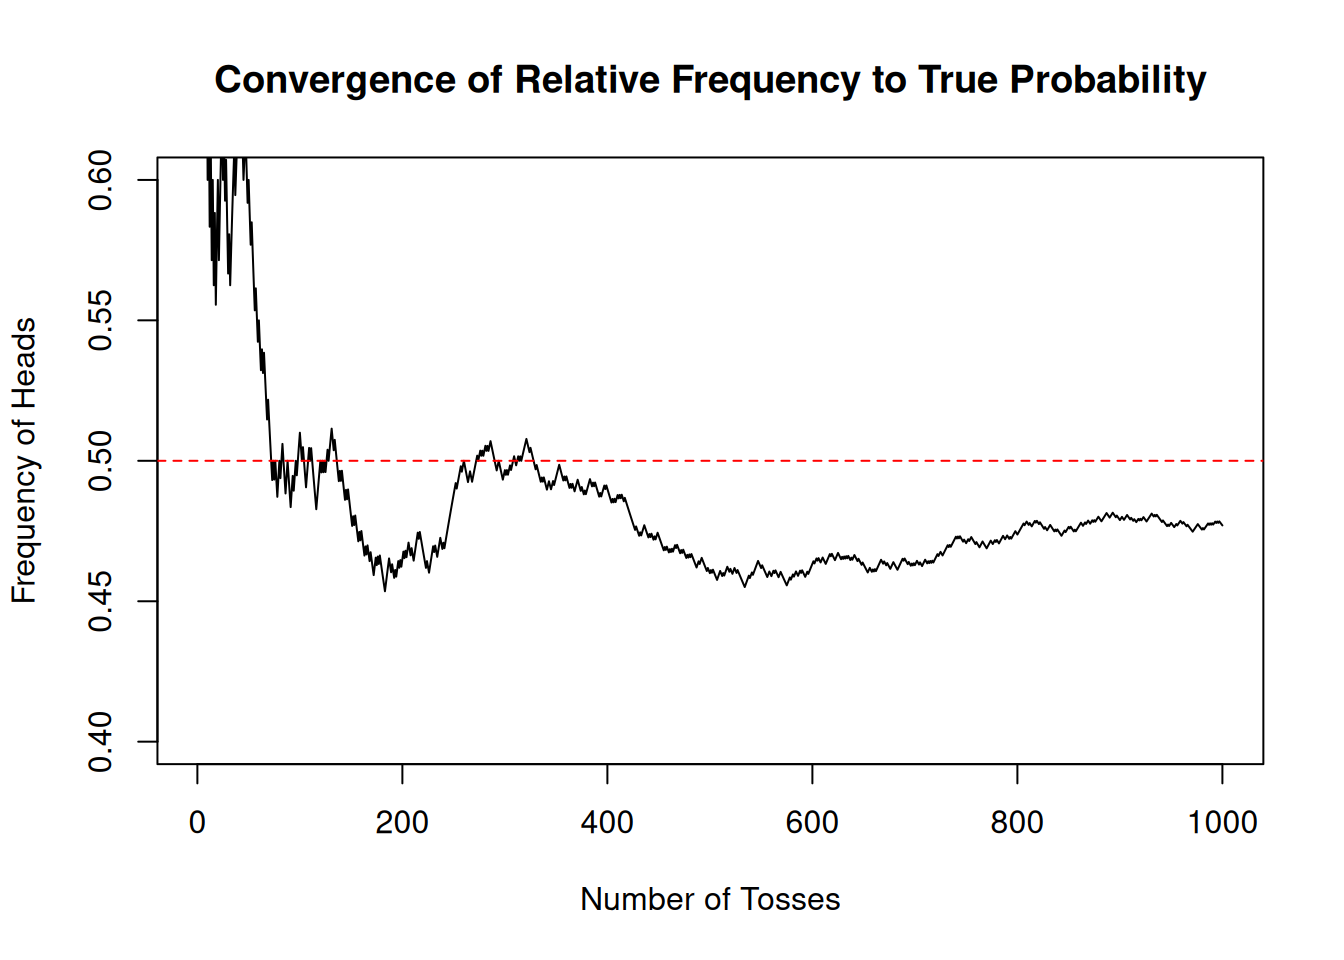
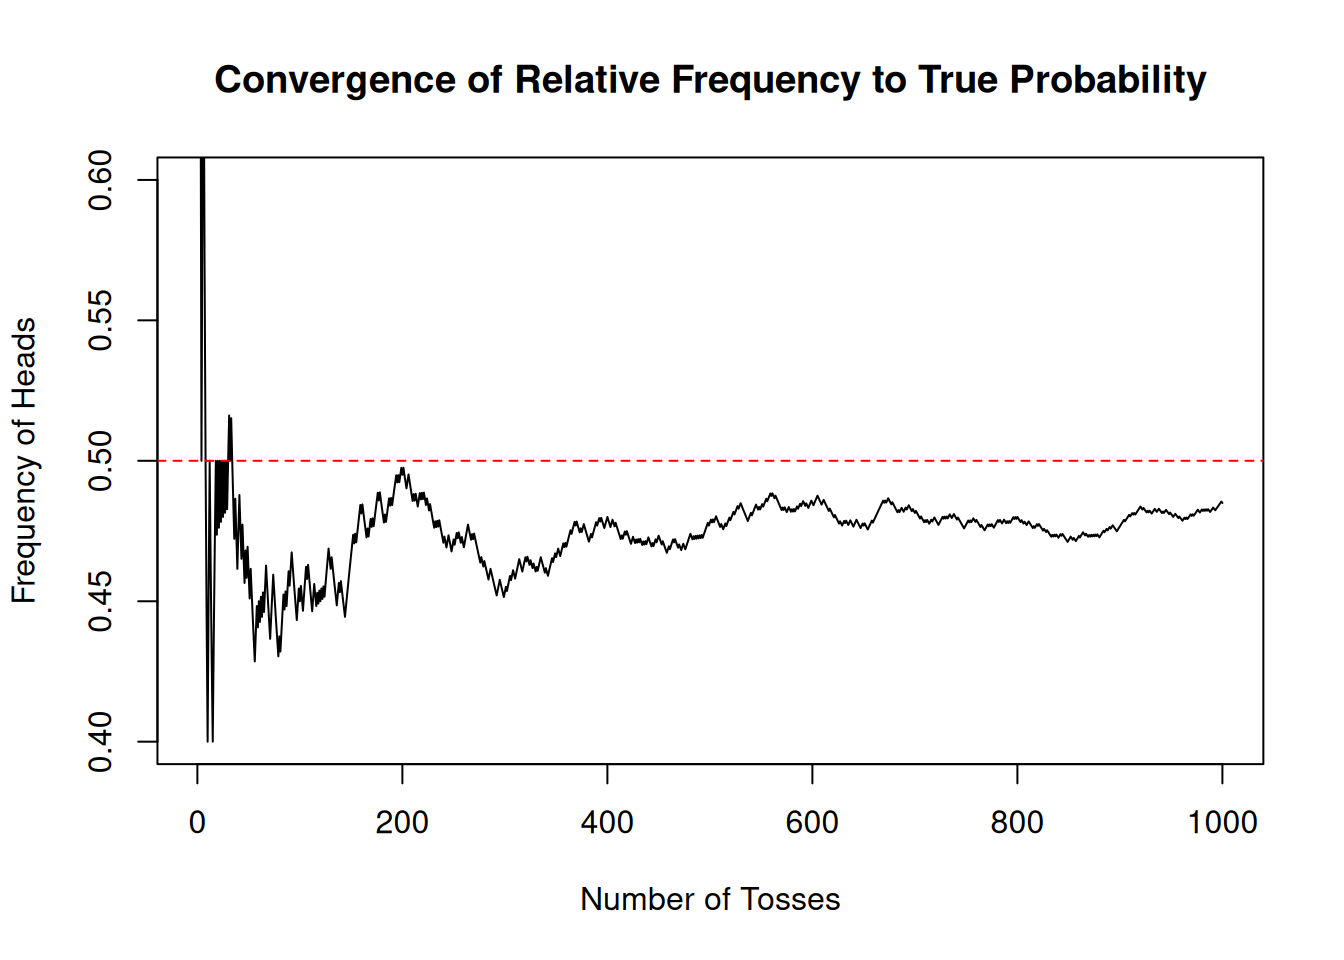
corr for github pages

diff --git a/docs/01-lecture1.html b/docs/01-lecture1.html
@@ -646,7 +646,7 @@ Figure&nbsp;1.4: The RStudio Environment pane keeps track of the objects you hav
 <div class="cell">
 <div class="sourceCode cell-code" id="cb33"><pre class="sourceCode r code-with-copy"><code class="sourceCode r"><span id="cb33-1"><a href="#cb33-1" aria-hidden="true" tabindex="-1"></a><span class="fu">sample</span>(<span class="at">x =</span> <span class="dv">0</span><span class="sc">:</span><span class="dv">1</span>, <span class="at">size =</span> <span class="dv">1</span>)</span></code><button title="Copy to Clipboard" class="code-copy-button"><i class="bi"></i></button></pre></div>
 <div class="cell-output cell-output-stdout">
-<pre><code>[1] 0</code></pre>
+<pre><code>[1] 1</code></pre>
 </div>
 </div>
 <p>In this case <code>sample</code> has chosen either 0 or 1 from the vector <code>x = (0,1)</code> at random.</p>
@@ -654,11 +654,11 @@ Figure&nbsp;1.4: The RStudio Environment pane keeps track of the objects you hav
 <div class="cell">
 <div class="sourceCode cell-code" id="cb35"><pre class="sourceCode r code-with-copy"><code class="sourceCode r"><span id="cb35-1"><a href="#cb35-1" aria-hidden="true" tabindex="-1"></a><span class="fu">sample</span>(<span class="at">x =</span> coin, <span class="at">size =</span> <span class="dv">1</span>)</span></code><button title="Copy to Clipboard" class="code-copy-button"><i class="bi"></i></button></pre></div>
 <div class="cell-output cell-output-stdout">
-<pre><code>[1] 0</code></pre>
+<pre><code>[1] 1</code></pre>
 </div>
 <div class="sourceCode cell-code" id="cb37"><pre class="sourceCode r code-with-copy"><code class="sourceCode r"><span id="cb37-1"><a href="#cb37-1" aria-hidden="true" tabindex="-1"></a><span class="fu">sample</span>(<span class="at">x =</span> coin, <span class="at">size =</span> <span class="dv">1</span>)</span></code><button title="Copy to Clipboard" class="code-copy-button"><i class="bi"></i></button></pre></div>
 <div class="cell-output cell-output-stdout">
-<pre><code>[1] 0</code></pre>
+<pre><code>[1] 1</code></pre>
 </div>
 <div class="sourceCode cell-code" id="cb39"><pre class="sourceCode r code-with-copy"><code class="sourceCode r"><span id="cb39-1"><a href="#cb39-1" aria-hidden="true" tabindex="-1"></a><span class="fu">sample</span>(<span class="at">x =</span> coin, <span class="at">size =</span> <span class="dv">1</span>)</span></code><button title="Copy to Clipboard" class="code-copy-button"><i class="bi"></i></button></pre></div>
 <div class="cell-output cell-output-stdout">
@@ -675,7 +675,7 @@ Figure&nbsp;1.4: The RStudio Environment pane keeps track of the objects you hav
 <div class="cell">
 <div class="sourceCode cell-code" id="cb43"><pre class="sourceCode r code-with-copy"><code class="sourceCode r"><span id="cb43-1"><a href="#cb43-1" aria-hidden="true" tabindex="-1"></a><span class="fu">sample</span>(coin,<span class="dv">1</span>)</span></code><button title="Copy to Clipboard" class="code-copy-button"><i class="bi"></i></button></pre></div>
 <div class="cell-output cell-output-stdout">
-<pre><code>[1] 1</code></pre>
+<pre><code>[1] 0</code></pre>
 </div>
 </div>
 <p>R would also know what to do. It is not always clear which names to use for a function. If you are not sure, you can use the function <code>args()</code> to look it up. Here we take the function <code>round</code>as one example.</p>
@@ -704,11 +704,11 @@ NULL</code></pre>
 <div class="cell">
 <div class="sourceCode cell-code" id="cb49"><pre class="sourceCode r code-with-copy"><code class="sourceCode r"><span id="cb49-1"><a href="#cb49-1" aria-hidden="true" tabindex="-1"></a><span class="fu">toss_coin</span>()</span></code><button title="Copy to Clipboard" class="code-copy-button"><i class="bi"></i></button></pre></div>
 <div class="cell-output cell-output-stdout">
-<pre><code>[1] 0</code></pre>
+<pre><code>[1] 1</code></pre>
 </div>
 <div class="sourceCode cell-code" id="cb51"><pre class="sourceCode r code-with-copy"><code class="sourceCode r"><span id="cb51-1"><a href="#cb51-1" aria-hidden="true" tabindex="-1"></a><span class="fu">toss_coin</span>()</span></code><button title="Copy to Clipboard" class="code-copy-button"><i class="bi"></i></button></pre></div>
 <div class="cell-output cell-output-stdout">
-<pre><code>[1] 1</code></pre>
+<pre><code>[1] 0</code></pre>
 </div>
 <div class="sourceCode cell-code" id="cb53"><pre class="sourceCode r code-with-copy"><code class="sourceCode r"><span id="cb53-1"><a href="#cb53-1" aria-hidden="true" tabindex="-1"></a><span class="fu">toss_coin</span>()</span></code><button title="Copy to Clipboard" class="code-copy-button"><i class="bi"></i></button></pre></div>
 <div class="cell-output cell-output-stdout">
@@ -716,11 +716,11 @@ NULL</code></pre>
 </div>
 <div class="sourceCode cell-code" id="cb55"><pre class="sourceCode r code-with-copy"><code class="sourceCode r"><span id="cb55-1"><a href="#cb55-1" aria-hidden="true" tabindex="-1"></a><span class="fu">toss_coin</span>()</span></code><button title="Copy to Clipboard" class="code-copy-button"><i class="bi"></i></button></pre></div>
 <div class="cell-output cell-output-stdout">
-<pre><code>[1] 1</code></pre>
+<pre><code>[1] 0</code></pre>
 </div>
 <div class="sourceCode cell-code" id="cb57"><pre class="sourceCode r code-with-copy"><code class="sourceCode r"><span id="cb57-1"><a href="#cb57-1" aria-hidden="true" tabindex="-1"></a><span class="fu">toss_coin</span>()</span></code><button title="Copy to Clipboard" class="code-copy-button"><i class="bi"></i></button></pre></div>
 <div class="cell-output cell-output-stdout">
-<pre><code>[1] 1</code></pre>
+<pre><code>[1] 0</code></pre>
 </div>
 </div>
 <p>Note that in our function <code>toss_coin()</code> has no arguments, just the function body. This is perfectly legitimate in R. It is important that when we call the function we have to call it with the parenthesis like <code>toss_coin()</code>. If we only call the name <code>toss_coin</code>, R will display the code in the function body.</p>
@@ -765,7 +765,7 @@ Now you try
 <div class="cell">
 <div class="sourceCode cell-code" id="cb63"><pre class="sourceCode r code-with-copy"><code class="sourceCode r"><span id="cb63-1"><a href="#cb63-1" aria-hidden="true" tabindex="-1"></a><span class="fu">toss_coin2</span>(<span class="at">ball =</span> <span class="dv">0</span><span class="sc">:</span><span class="dv">1</span>)</span></code><button title="Copy to Clipboard" class="code-copy-button"><i class="bi"></i></button></pre></div>
 <div class="cell-output cell-output-stdout">
-<pre><code>[1] 0</code></pre>
+<pre><code>[1] 1</code></pre>
 </div>
 </div>
 <p>Note that we still get an error, if we forget to supply ball argument. This could be avoided if we give the function a default argument</p>
@@ -776,7 +776,7 @@ Now you try
 <div class="cell">
 <div class="sourceCode cell-code" id="cb66"><pre class="sourceCode r code-with-copy"><code class="sourceCode r"><span id="cb66-1"><a href="#cb66-1" aria-hidden="true" tabindex="-1"></a><span class="fu">toss_coin2</span>()</span></code><button title="Copy to Clipboard" class="code-copy-button"><i class="bi"></i></button></pre></div>
 <div class="cell-output cell-output-stdout">
-<pre><code>[1] 1</code></pre>
+<pre><code>[1] 0</code></pre>
 </div>
 </div>
 <p>everything works, just as intended.</p>

diff --git a/docs/02-lecture2.html b/docs/02-lecture2.html
@@ -1007,7 +1007,7 @@ Independence
 <div class="sourceCode cell-code" id="cb23"><pre class="sourceCode r code-with-copy"><code class="sourceCode r"><span id="cb23-1"><a href="#cb23-1" aria-hidden="true" tabindex="-1"></a>week_movements <span class="ot">&lt;-</span> <span class="fu">sample</span>(price_changes, <span class="at">size =</span> <span class="dv">7</span>, <span class="at">replace =</span> <span class="cn">TRUE</span>)</span>
 <span id="cb23-2"><a href="#cb23-2" aria-hidden="true" tabindex="-1"></a>week_movements</span></code><button title="Copy to Clipboard" class="code-copy-button"><i class="bi"></i></button></pre></div>
 <div class="cell-output cell-output-stdout">
-<pre><code>[1]  0 -1  0  1  0 -1 -1</code></pre>
+<pre><code>[1]  1  1  1 -1  0  1  1</code></pre>
 </div>
 </div>
 <p>Here, <code>size = 7</code> simulates 7 days of movements, and <code>replace = TRUE</code> allows values to be selected more than once.</p>
@@ -1022,7 +1022,7 @@ Independence
 <span id="cb25-4"><a href="#cb25-4" aria-hidden="true" tabindex="-1"></a>                                  <span class="at">prob =</span> <span class="fu">c</span>(<span class="fl">0.3</span>, <span class="fl">0.4</span>, <span class="fl">0.3</span>))</span>
 <span id="cb25-5"><a href="#cb25-5" aria-hidden="true" tabindex="-1"></a>week_movements_weighted</span></code><button title="Copy to Clipboard" class="code-copy-button"><i class="bi"></i></button></pre></div>
 <div class="cell-output cell-output-stdout">
-<pre><code>[1] -1 -1 -1  0  0 -1  0</code></pre>
+<pre><code>[1]  1  1  1 -1 -1 -1 -1</code></pre>
 </div>
 </div>
 <p>Here, the probabilities <code>0.3</code>, <code>0.4</code>, and <code>0.3</code> represent the likelihood of a decrease, no change, or an increase in price, respectively.</p>
@@ -1083,7 +1083,7 @@ Independence
 <div class="sourceCode cell-code" id="cb33"><pre class="sourceCode r code-with-copy"><code class="sourceCode r"><span id="cb33-1"><a href="#cb33-1" aria-hidden="true" tabindex="-1"></a>now <span class="ot">&lt;-</span> <span class="fu">Sys.time</span>()</span>
 <span id="cb33-2"><a href="#cb33-2" aria-hidden="true" tabindex="-1"></a>now</span></code><button title="Copy to Clipboard" class="code-copy-button"><i class="bi"></i></button></pre></div>
 <div class="cell-output cell-output-stdout">
-<pre><code>[1] "2025-01-15 12:46:39 CET"</code></pre>
+<pre><code>[1] "2025-01-15 15:00:16 CET"</code></pre>
 </div>
 <div class="sourceCode cell-code" id="cb35"><pre class="sourceCode r code-with-copy"><code class="sourceCode r"><span id="cb35-1"><a href="#cb35-1" aria-hidden="true" tabindex="-1"></a><span class="fu">typeof</span>(now)</span></code><button title="Copy to Clipboard" class="code-copy-button"><i class="bi"></i></button></pre></div>
 <div class="cell-output cell-output-stdout">
@@ -2168,27 +2168,6 @@ Prompt
 <li><strong>Probability Context</strong>:
 <ul>
 <li>Relate empirical frequencies to probabilities and discuss the implications of large sample sizes.</li>
-</ul></li>
-</ol>
-<p><strong>Step 6: Submit Your Work</strong></p>
-<ol type="1">
-<li>A short report summarizing:
-<ul>
-<li>Your approach to data preparation and analysis.</li>
-<li>A comparison of the revenue and expenditure distributions with Benford’s Law.</li>
-<li>Your interpretation of any anomalies.</li>
-</ul></li>
-<li>Well-commented R code for your analysis.</li>
-</ol>
-<p><strong>Deliverables</strong></p>
-<ol type="1">
-<li><strong>Analysis Report</strong>:
-<ul>
-<li>Include plots and tables summarizing your findings.</li>
-</ul></li>
-<li><strong>R Script</strong>:
-<ul>
-<li>Submit a clear and well-commented R script.</li>
 </ul></li>
 </ol>
 
